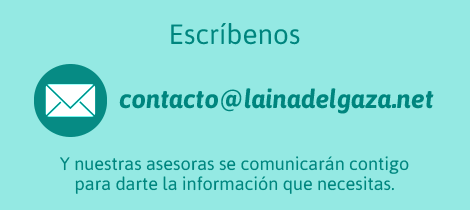
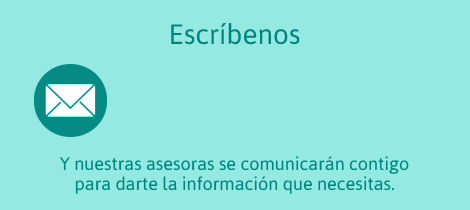
email

Changed region(s): [[0.2383, 0.4, 0.9234, 0.5429]]

diff --git a/app/assets/stylesheets/_styles.css.scss b/app/assets/stylesheets/_styles.css.scss
@@ -118,7 +118,15 @@ ul li {list-style: none;}
 .fb-like-box.fb_iframe_widget {
 margin: 0px -10px;
 }
+.mail-country{
 
+  position: absolute;
+  margin-top: -147px;
+  font-style: italic;
+  margin-left: 140px;
+  font-size: 30px;
+  color: #00857e;
+}
   #carousel-principal{
     padding: 0px 15px;
    img{min-width: 100%;}
